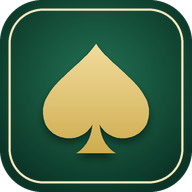
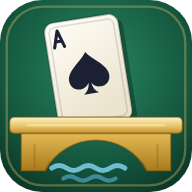
faviocon

diff --git a/CLAUDE.md b/CLAUDE.md
@@ -20,7 +20,7 @@ TypeScript, Vite 6, React 19, Zustand, Vitest. DDS (Bo Haglund's double-dummy so
 - `npm run deals` — rebuild `src/data/sets/*.json` + `src/data/catalog.json` from `data/bbo_bridgemaster/` (~15 s). The generated files are committed (CI doesn't run the pipeline). Re-run the simulation test after changing it.
 - `npm run fix-lock` — **run after any `npm install` that changes package-lock.json.** This machine installs through a corporate Artifactory mirror (`NPM_CONFIG_REGISTRY`), which writes mirror URLs into the lockfile; GitHub Actions can't reach them. The script points every `resolved` URL back at registry.npmjs.org (integrity hashes stay valid). The lockfile must contain no `drwholdings` URLs.
 - `npm run deploy:rules` — deploy `firestore.rules`. Confirm with the user first (shared project).
-- `python scripts/make-icons.py` — redraw `public/` icons (needs Pillow).
+- `node scripts/make-icons.mjs` — redraw the icons (`public/favicon.svg` + the PNGs: an ace of spades standing on a gold arched bridge), rasterised with the local Chrome (set `CHROME` if not found).
 - `scripts/scrape_bbo_bridgemaster.py` — the original scraper (Python, websocket + a browser); only needed to re-scrape.
 
 ## Architecture
